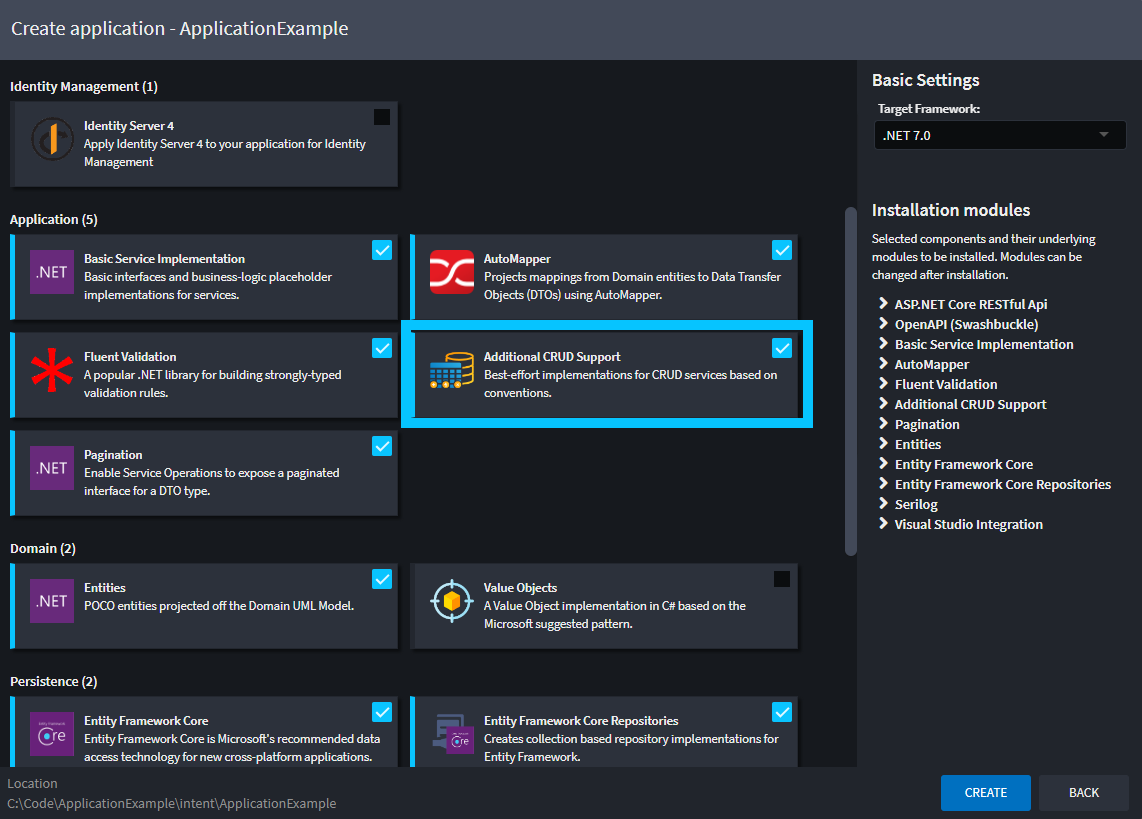
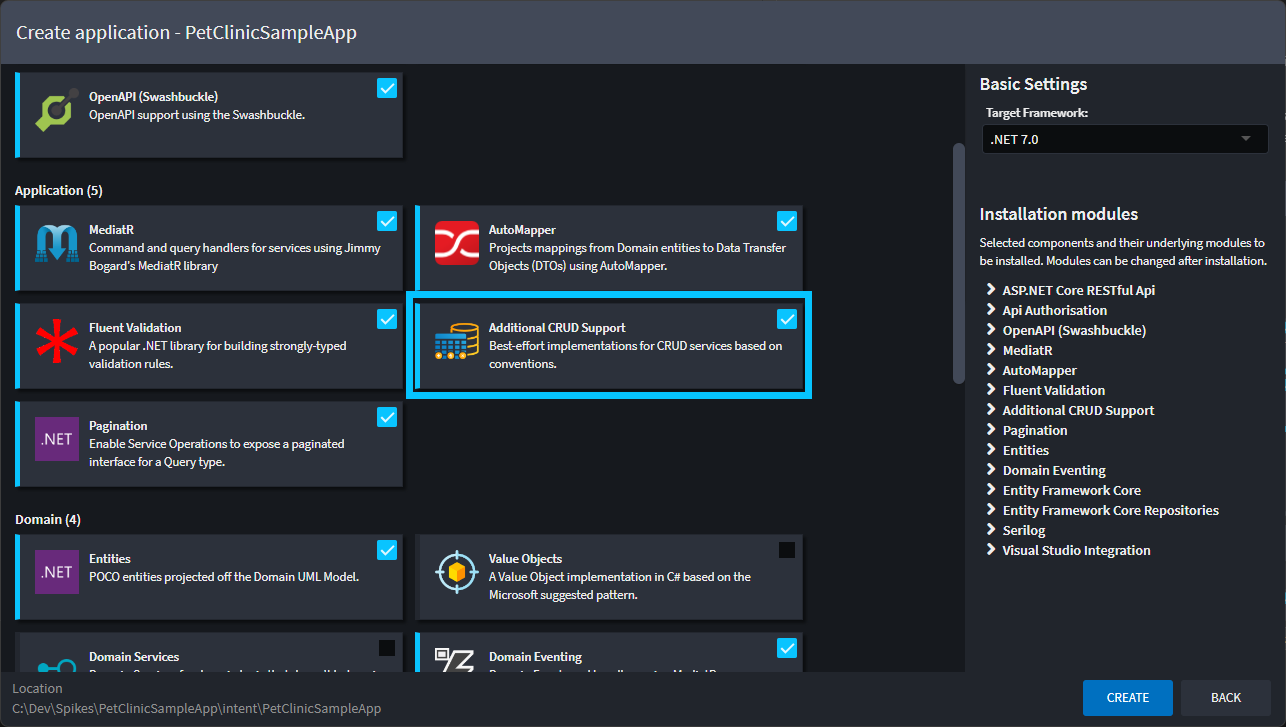
Article 3

diff --git a/articles/getting-started/tutorials/create-a-sample-app/03-create-crud-services/create-crud-services.md b/articles/getting-started/tutorials/create-a-sample-app/03-create-crud-services/create-crud-services.md
@@ -6,44 +6,36 @@ uid: tutorials.create-a-sample-app.create-crud-services
 
 ## Overview
 
-This article continues from [](xref:tutorials.create-a-sample-app.create-a-petclinic-csharp) and shows how to create additional [CRUD](https://en.wikipedia.org/wiki/Create,_read,_update_and_delete) services and operations using the `Create CRUD Operations` context menu option.
+This article continues from [](xref:tutorials.create-a-sample-app.create-a-petclinic-csharp) and shows how to create additional [CRUD](https://en.wikipedia.org/wiki/Create,_read,_update_and_delete) services and operations using the `Create CQRS CRUD Operations` context menu option.
 
 Intent Architect was built for automating the most complex conceivable use cases, so for Intent Architect Modules to add automation for simple patterns like CRUD is very easy. The Clean Architecture application template by default includes the `Additional CRUD Support` component which does exactly this.
 
 ![The Additional CRUD Support component for the Clean Architecture .NET Application Template](images/application-template-additional-crud-support-component.png)
 
-## Preparation for additional services
-
-To disambiguate the DTOs that already exist from the new ones being created, we're going to move them into their own folder.
-
-- Ensure you are in the `Services` designer.
-- Create a Folder called `Owners`.
-- Select all the DTOs using the shift-click method.
-- Drag all the selected DTOs into the `Owners` folder.
-
-It should look like this:
-
-![Preparation for additional services](images/preparation-for-additional-services.png)
-
 ## Create the additional services
 
 - Right-click the `Services` tree node.
-- Select the `Create CRUD Operations` context menu option.
+- Select the `Create CQRS CRUD Operations` context menu option.
 
 You will be presented with a `Lookup Type` dialogue.
 
 - Select the `Pet` option.
 - Press `DONE`.
 
-The `Create CRUD Operation` script option you selected will now automatically create a `PetsService`, CRUD operations and a corresponding `Pets` folder containing the DTOs for the operations:
+The `Create CQRS CRUD Operation` script option you selected will now automatically create a CQRS Style `PetsService`, with all the relevant `Command`s, `Query`s and `DTO`s:
 
 ![Created CRUD operations and DTOs](images/created-crud-operations-and-dtos.png)
 
 It has automated the same process you could have alternatively done manually in the designer by creating all these elements.
 
+The final thing we need to do is to configure how our service will be distributed.
+* Select all the `Pet` `Command`s and `Query`s
+* Right-click and select `Expose as Http Endpoint`
+* Click the `Save` icon.
+
 ## Run the Software Factory
 
-Run the [Software Factory](xref:tutorials.create-a-sample-app.create-a-petclinic-csharp#generate-the-code), once complete, double-click `PetsService.cs` file:
+Run the [Software Factory](xref:tutorials.create-a-sample-app.create-a-petclinic-csharp#generate-the-code), once complete, double-click `CreatePetCommandHandler.cs` file:
 
 ![Software Factory Execution, Apply Changes](images/software-factory-execution-apply-changes.png)
 
@@ -51,91 +43,53 @@ Contents like, or very similar to, the following has been generated:
 
 ```csharp
 using System;
-using System.Collections.Generic;
 using System.Linq;
+using System.Threading;
 using System.Threading.Tasks;
-using AutoMapper;
 using Intent.RoslynWeaver.Attributes;
-using PetClinicRest.Application.Interfaces;
-using PetClinicRest.Application.Pets;
-using PetClinicRest.Domain.Entities;
-using PetClinicRest.Domain.Repositories;
+using MediatR;
+using PetClinicApp.Domain.Entities;
+using PetClinicApp.Domain.Repositories;
 
 [assembly: DefaultIntentManaged(Mode.Fully)]
-[assembly: IntentTemplate("Intent.Application.ServiceImplementations.ServiceImplementation", Version = "1.0")]
+[assembly: IntentTemplate("Intent.Application.MediatR.CommandHandler", Version = "1.0")]
 
-namespace PetClinicRest.Application.Implementation
+namespace PetClinicApp.Application.Pets.CreatePet
 {
-    [IntentManaged(Mode.Merge)]
-    public class PetsService : IPetsService
+    [IntentManaged(Mode.Merge, Signature = Mode.Fully)]
+    public class CreatePetCommandHandler : IRequestHandler<CreatePetCommand, Guid>
     {
         private readonly IPetRepository _petRepository;
-        private readonly IMapper _mapper;
 
-        [IntentManaged(Mode.Fully, Body = Mode.Ignore)]
-        public PetsService(IPetRepository petRepository, IMapper mapper)
+        [IntentManaged(Mode.Merge)]
+        public CreatePetCommandHandler(IPetRepository petRepository)
         {
             _petRepository = petRepository;
-            _mapper = mapper;
         }
 
         [IntentManaged(Mode.Fully, Body = Mode.Fully)]
-        public async Task<Guid> CreatePet(PetCreateDto dto)
+        public async Task<Guid> Handle(CreatePetCommand request, CancellationToken cancellationToken)
         {
             var newPet = new Pet
             {
-                Name = dto.Name,
-                BirthDate = dto.BirthDate,
-                OwnerId = dto.OwnerId,
-                PetTypeId = dto.PetTypeId,
+                Name = request.Name,
+                BirthDate = request.BirthDate,
+                OwnerId = request.OwnerId,
+                PetTypeId = request.PetTypeId,
             };
+
             _petRepository.Add(newPet);
-            await _petRepository.UnitOfWork.SaveChangesAsync();
+            await _petRepository.UnitOfWork.SaveChangesAsync(cancellationToken);
             return newPet.Id;
-        }
-
-        [IntentManaged(Mode.Fully, Body = Mode.Fully)]
-        public async Task<PetDto> FindPetById(Guid id)
-        {
-            var element = await _petRepository.FindByIdAsync(id);
-            return element.MapToPetDto(_mapper);
-        }
-
-        [IntentManaged(Mode.Fully, Body = Mode.Fully)]
-        public async Task<List<PetDto>> FindPets()
-        {
-            var elements = await _petRepository.FindAllAsync();
-            return elements.MapToPetDtoList(_mapper);
-        }
-
-        [IntentManaged(Mode.Fully, Body = Mode.Fully)]
-        public async Task UpdatePet(Guid id, PetUpdateDto dto)
-        {
-            var existingPet = await _petRepository.FindByIdAsync(id);
-            existingPet.Name = dto.Name;
-            existingPet.BirthDate = dto.BirthDate;
-            existingPet.OwnerId = dto.OwnerId;
-            existingPet.PetTypeId = dto.PetTypeId;
-        }
-
-        [IntentManaged(Mode.Fully, Body = Mode.Fully)]
-        public async Task DeletePet(Guid id)
-        {
-            var existingPet = await _petRepository.FindByIdAsync(id);
-            _petRepository.Remove(existingPet);
-        }
-
-        public void Dispose()
-        {
         }
     }
 }
 ```
 
-Observe how all the CRUD methods had implementations generated for them. These implementations were generated by decorators in the `Intent.Application.ServiceImplementations.Conventions.CRUD` module which was by default installed by the application template. The decorators recognized the conventional operation names, with conventional DTOs, with conventional fields on them and then automatically generated these implementations.
+Observe how the `CommandHandler`  has been implemented for you. These implementations were generated by decorators in the `Intent.Application.ServiceImplementations.Conventions.CRUD` module which was by default installed by the application template. The decorators recognized the conventional operation names, with conventional DTOs, with conventional fields on them and then automatically generated these implementations.
 
 You can press `APPLY` and then test these in Visual Studio and Swagger as per part 2 of this tutorial.
 
 ## Summary
 
-You have used the `Create CRUD Operations` script available on the services designer to model and generate operations for basic CRUD operations on entities. This process can be done in a matter of _seconds_.
+You have used the `Create CQRS CRUD Operations` script available on the services designer to model and generate operations for basic CRUD operations on entities. This process can be done in a matter of _seconds_.

diff --git a/articles/getting-started/tutorials/create-a-sample-app/02-create-a-petclinic-csharp/create-a-petclinic-csharp.md b/articles/getting-started/tutorials/create-a-sample-app/02-create-a-petclinic-csharp/create-a-petclinic-csharp.md
@@ -123,7 +123,7 @@ Also set up a `PetType` entity in a similar way:
 
 Click on the `Services` designer located in the left panel. This is where API Services can be modelled to interact with the entities modelled in the domain designer.
 
-Now we will create a CQRS style `Service` for creating and retrieving `Owner`s. 
+Now we will create a CQRS style `Service` for adding and retrieving `Owner`s. 
 
 * Create a `Folder` named `Owners`, this folder represents our Owners service and will contain it's associated `Command`s and `Query`s.
 
